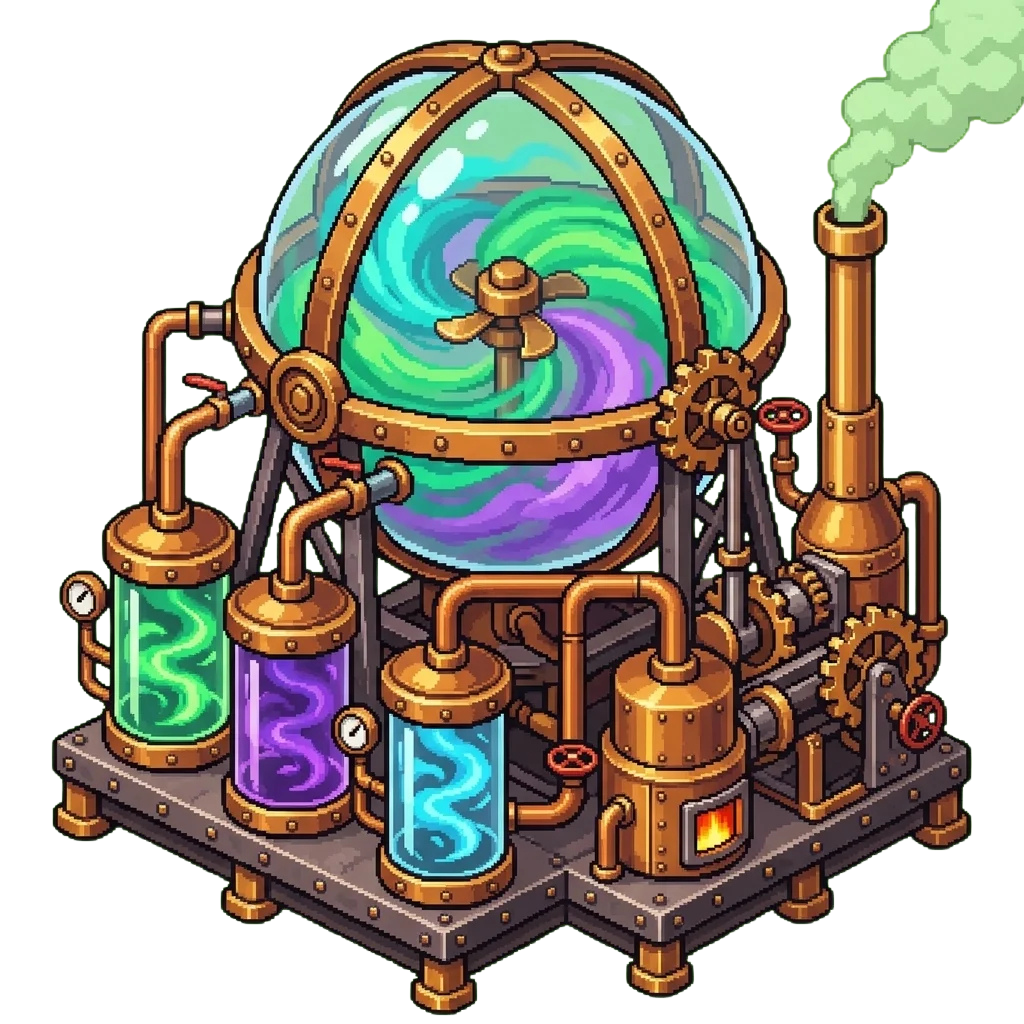
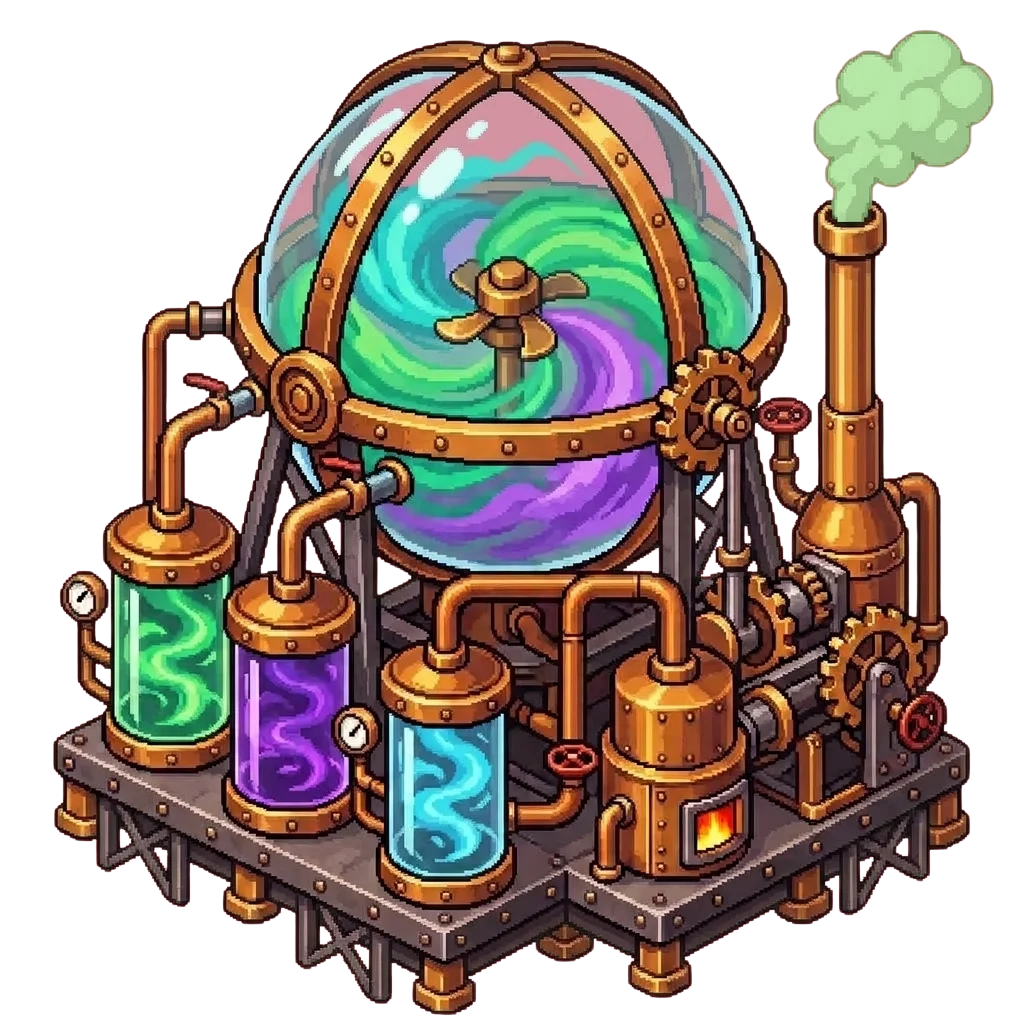
final changes

diff --git a/style.css b/style.css
@@ -549,11 +549,11 @@ button:focus-visible,
 }
 
 .pipe-top {
-    top: calc(-1 * var(--pipe-gap) / 2 - 24px);
+    top: calc(-1 * var(--pipe-gap) / 2 - 14px);
 }
 
 .pipe-bottom {
-    bottom: -16px;
+    bottom: -31px;
 }
 
 /* UNPLACED MACHINE MENU -------------------------------- */
